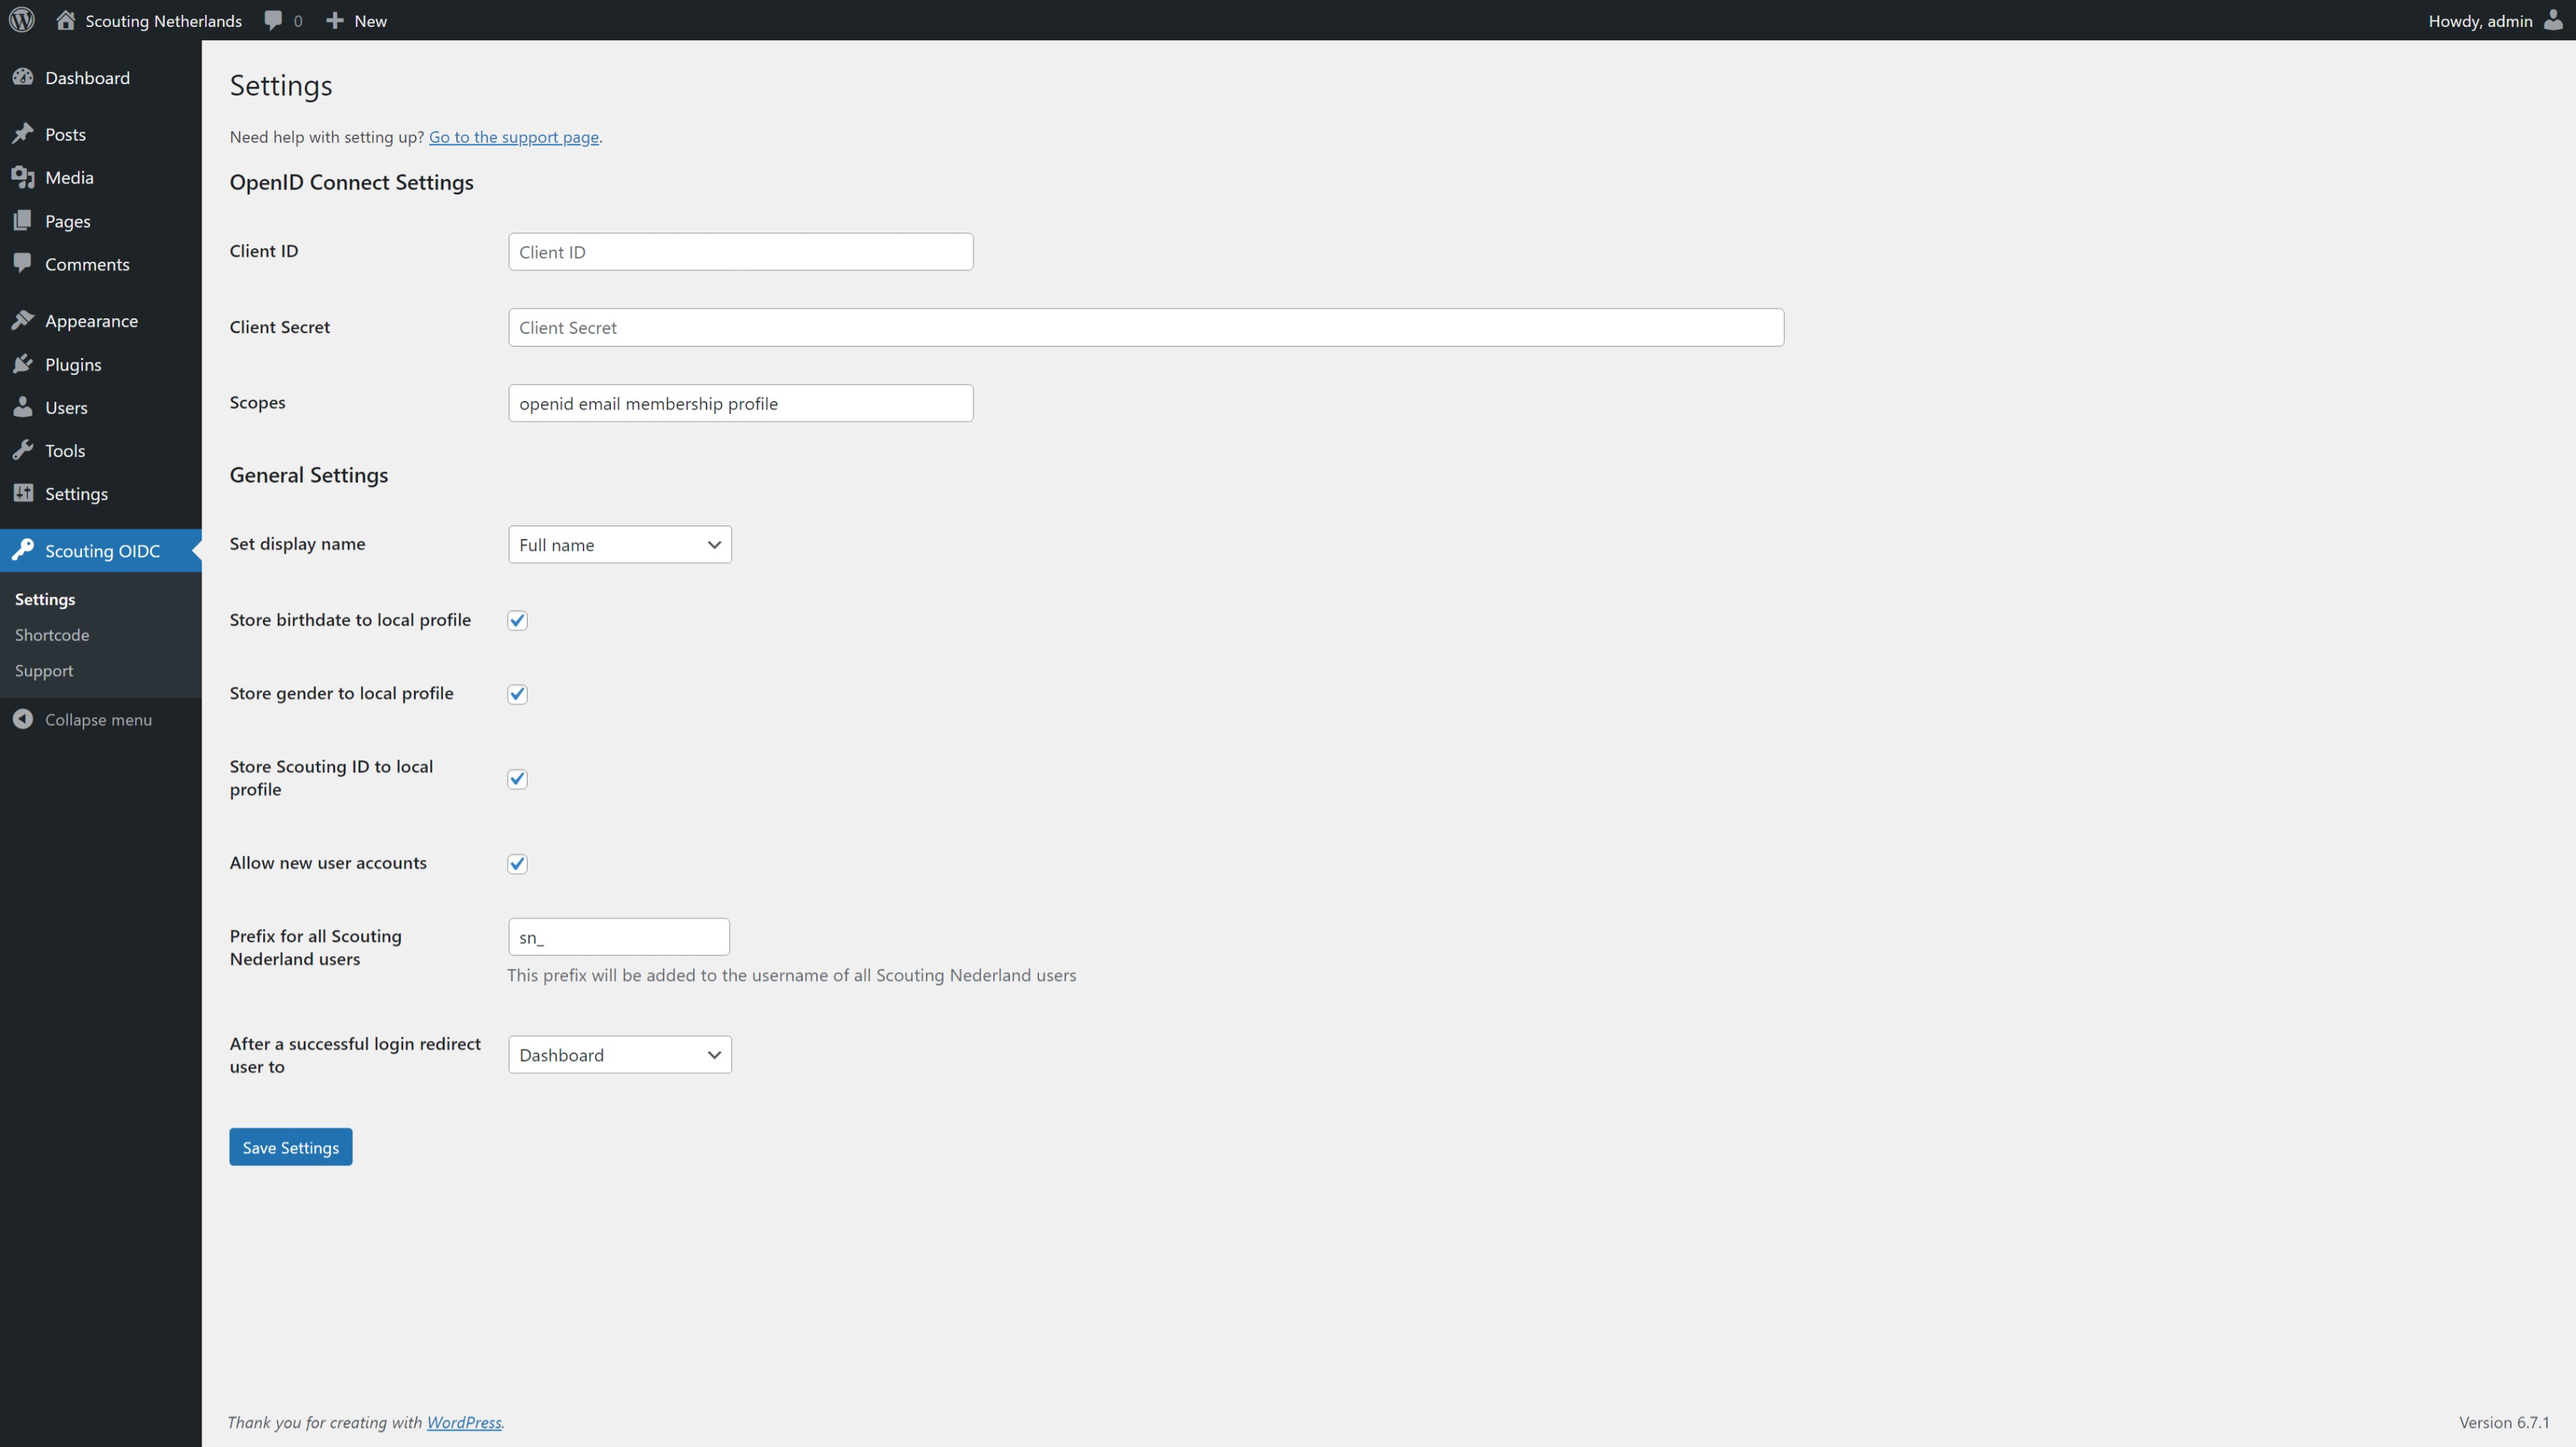
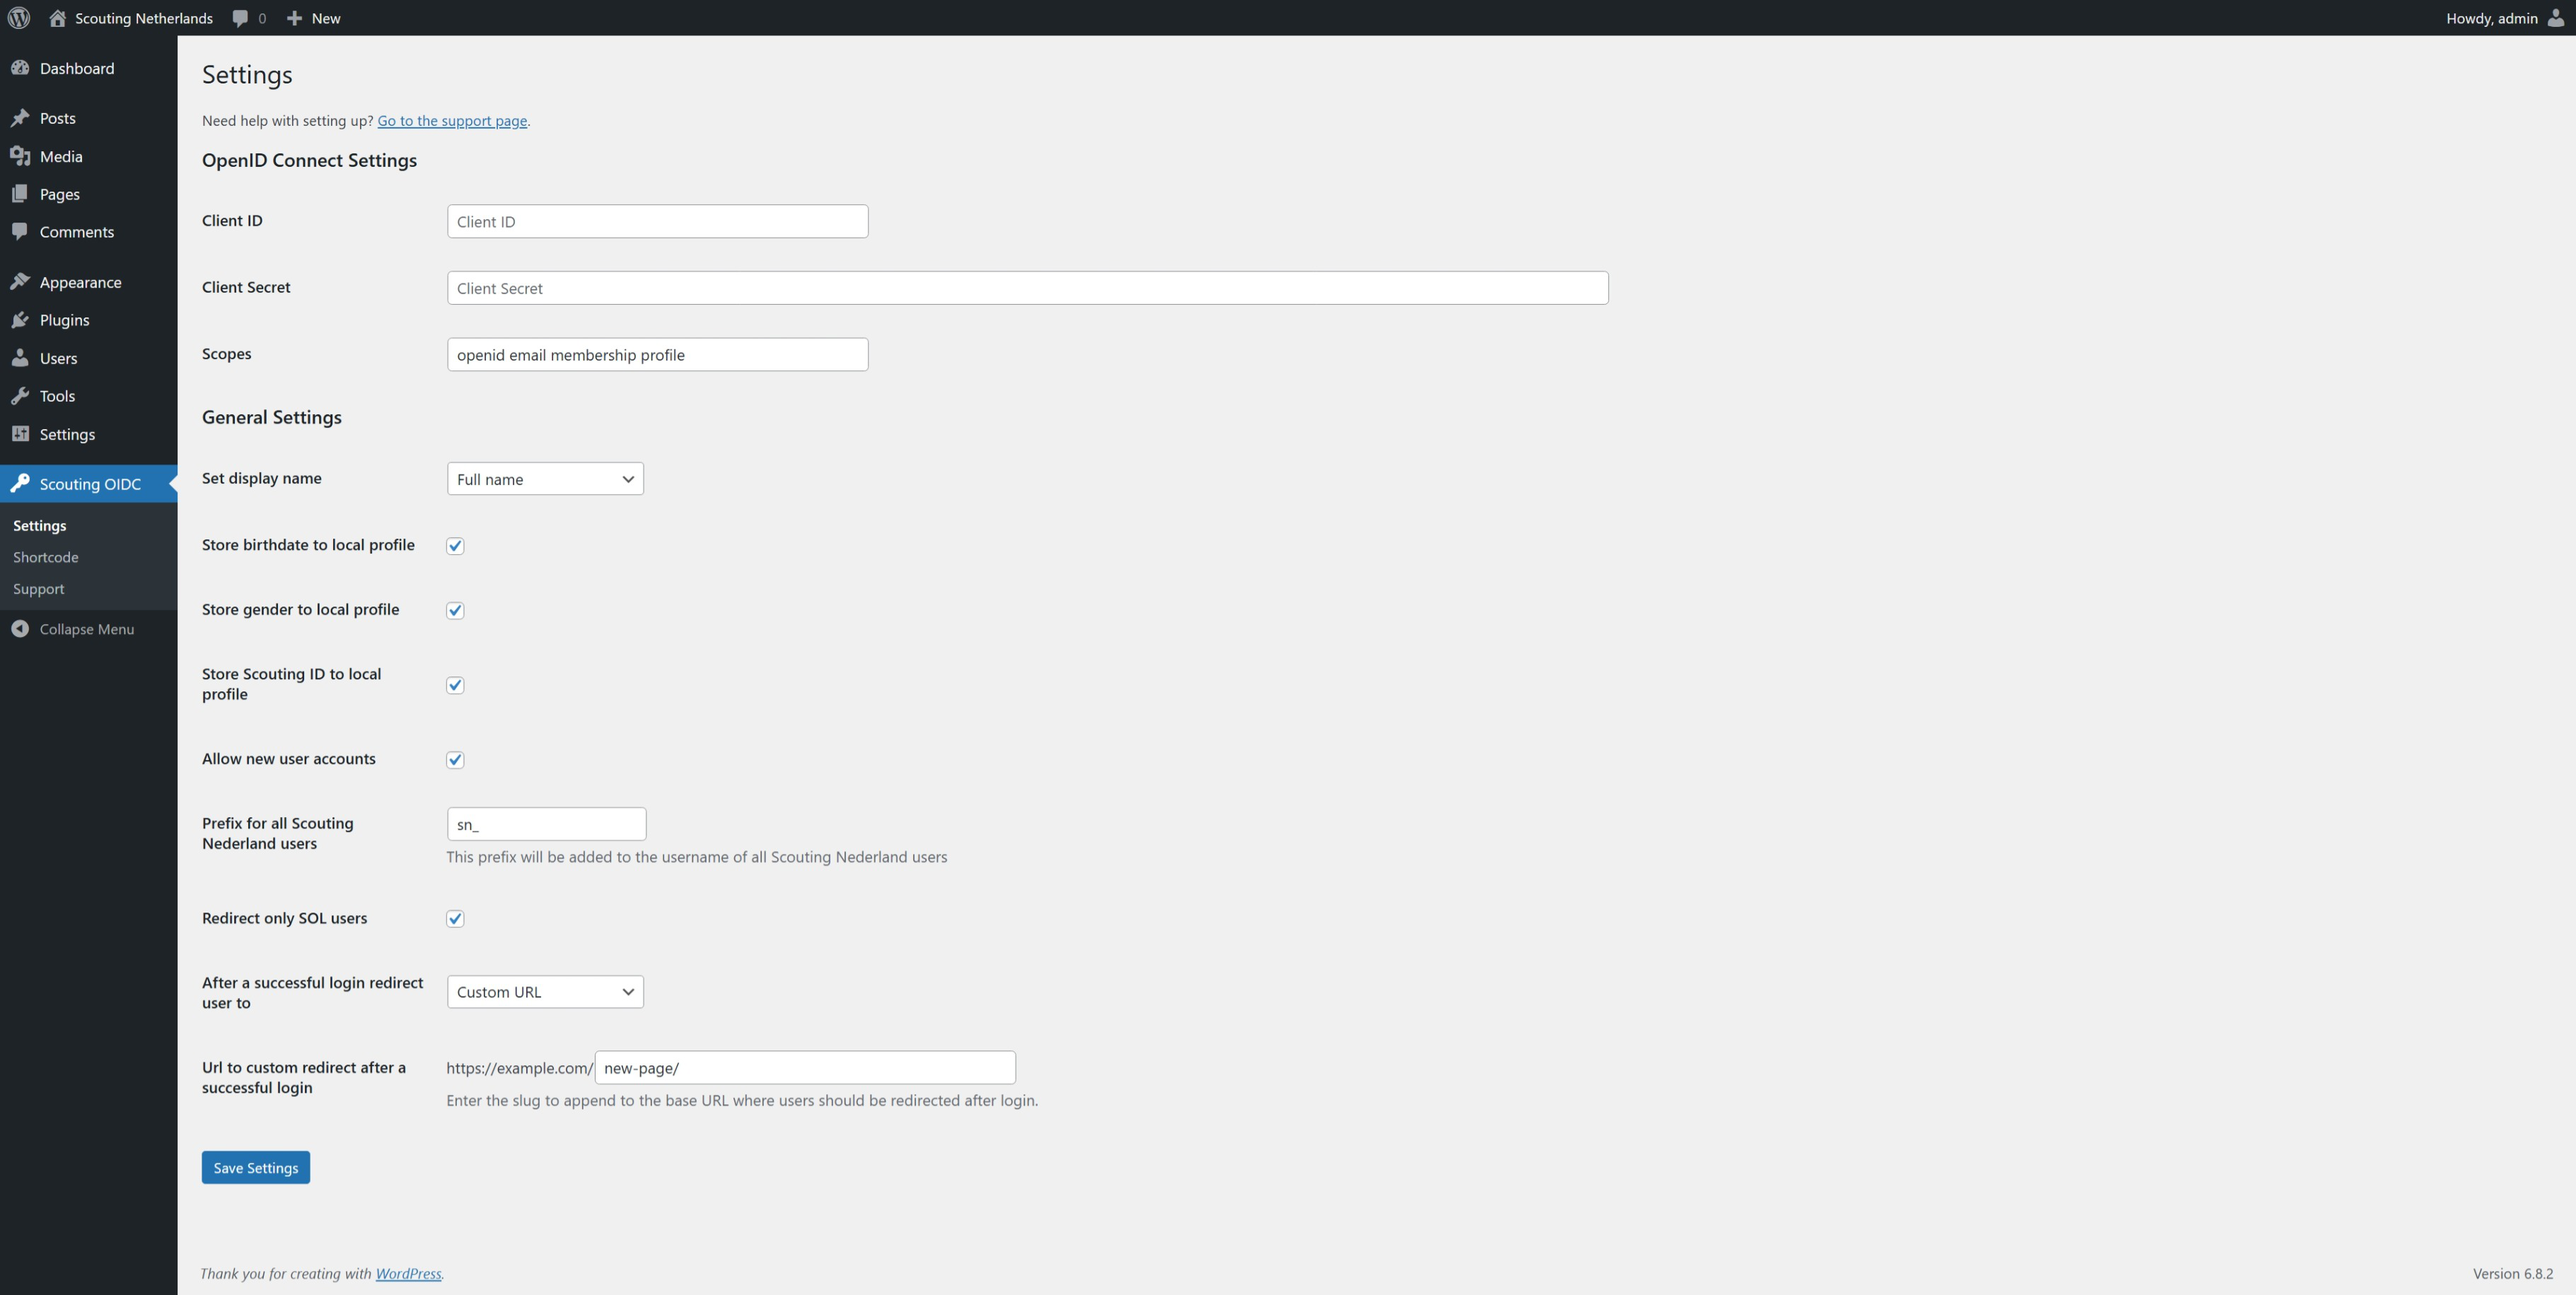
Release 1.2.0

diff --git a/src/settings/hide-field.js b/src/settings/hide-field.js
@@ -1,0 +1,16 @@
+document.addEventListener('DOMContentLoaded', function() {
+    function toggleCustomRedirect() {
+        var select = document.getElementById('scouting_oidc_login_redirect');
+        var customRow = document.querySelector('.scouting-oidc-custom-redirect-tr');
+        if (select.value === 'custom') {
+            customRow.style.display = ''; // show
+        } else {
+            customRow.style.display = 'none'; // hide
+        }
+    }
+
+    toggleCustomRedirect();
+
+    var select = document.getElementById('scouting_oidc_login_redirect');
+    select.addEventListener('change', toggleCustomRedirect);
+});

diff --git a/src/settings/general.php b/src/settings/general.php
@@ -85,6 +85,18 @@ class Settings_General
             'scouting-openid-connect-settings',                                         // Page slug
             'scouting_oidc_general_settings'                                            // Section ID where the field should be added
         );
+
+        // Add a settings text field
+        add_settings_field(
+            'scouting_oidc_custom_redirect',                                                  // Field ID
+            __('Url to custom redirect after a successful login', 'scouting-openid-connect'), // Field label
+            [$this, 'scouting_oidc_settings_general_custom_redirect_callback'],               // Callback to render field
+            'scouting-openid-connect-settings',                                               // Page slug
+            'scouting_oidc_general_settings',                                                 // Section ID where the field should be added
+            [
+                'class' => 'scouting-oidc-custom-redirect-tr'                                 // Extra args to identify the tr for JS
+            ]
+        );
     
         // Register settings
         register_setting(
@@ -157,6 +169,15 @@ class Settings_General
                 'sanitize_callback' => [$this, 'scouting_oidc_sanitize_login_redirect_option'] // Sanitize the input value as login redirect
             ]
         );
+
+        // Register settings
+        register_setting(
+            'scouting_oidc_settings_group',                                                     // Settings group name
+            'scouting_oidc_custom_redirect',                                                    // Option name
+            [
+                'sanitize_callback' => [$this, 'scouting_oidc_sanitize_custom_redirect_option'] // Sanitize the input value as custom redirect
+            ]
+        );
     }
 
     // Sanitize the display name option
@@ -176,10 +197,24 @@ class Settings_General
     // Sanitize the login redirect option
     public function scouting_oidc_sanitize_login_redirect_option($input) {
         // Define allowed options
-        $valid = ['default', 'frontpage', 'dashboard'];
+        $valid = ['default', 'frontpage', 'dashboard', 'custom'];
         
         // Return the input if it’s a valid option; otherwise, default to 'default'
         return in_array($input, $valid, true) ? $input : 'default';
+    }
+
+    // Sanitize the custom redirect option
+    public function scouting_oidc_sanitize_custom_redirect_option($input) {
+        // Define your fixed base domain
+        $base_domain = home_url('/'); // automatically gets https://example.com/
+
+        // Add the base domain if it's not already present
+        if (!empty($input) && strpos($input, $base_domain) !== 0) {
+            $input = $base_domain . ltrim($input, '/');
+        }
+
+        // Sanitize the input
+        return sanitize_text_field($input);
     }
 
     // Callback to render section content
@@ -258,6 +293,7 @@ class Settings_General
             'default' => __('Default (no action)', 'scouting-openid-connect'),
             'frontpage' => __('Frontpage', 'scouting-openid-connect'),
             'dashboard' => __('Dashboard', 'scouting-openid-connect'),
+            'custom' => __('Custom URL', 'scouting-openid-connect'),
         );
         $value = get_option('scouting_oidc_login_redirect');
         
@@ -269,6 +305,23 @@ class Settings_General
                 echo '<option value="' . esc_attr($key) . '">' . esc_html($name) . '</option>';
         }
         echo '</select>';
+    }
+
+    // Callback to render text field
+    public function scouting_oidc_settings_general_custom_redirect_callback() {
+        $value = get_option('scouting_oidc_custom_redirect');
+
+        // Define your fixed base domain
+        $base_domain = home_url('/'); // automatically gets https://example.com/
+
+        // Remove base domain from stored value (so only the slug is stored/displayed)
+        $slug = '';
+        if (!empty($value) && strpos($value, $base_domain) === 0) {
+            $slug = substr($value, strlen($base_domain));
+        }
+        echo '<span style="padding: 5.675px 0px;">' . esc_html($base_domain) . '</span>';
+        echo '<input type="text" id="scouting_oidc_custom_redirect" name="scouting_oidc_custom_redirect" size="50" value="' . esc_attr($slug) . '" placeholder="' . esc_attr__("custom-page", "scouting-openid-connect") . '"/>';
+        echo '<p class="description">' . esc_html__("Enter the slug to append to the base URL where users should be redirected after login.", "scouting-openid-connect") . '</p>';
     }
 }
 ?>

diff --git a/scouting-openid-connect.php b/scouting-openid-connect.php
@@ -9,14 +9,14 @@ if ( ! defined( 'ABSPATH' ) ) exit; // Exit if accessed directly
  * @author     Job van Koeveringe <job.van.koeveringe@scouting.nl>
  * @copyright  2025 Scouting Nederland
  * @license    GPLv3
- * @version    1.1.0
+ * @version    1.2.0
  * @link       https://github.com/Scouting-nl/scouting-openid-connect
  *
  * @wordpress-plugin
  * Plugin Name:          Scouting OpenID Connect
  * Plugin URI:           https://github.com/Scouting-nl/scouting-openid-connect
  * Description:          WordPress plugin for logging in with Scouting Nederland OpenID Connect Server.
- * Version:              1.1.0
+ * Version:              1.2.0
  * Requires at least:    6.4.3
  * Requires PHP:         8.2
  * Author:               Job van Koeveringe
@@ -61,10 +61,7 @@ $scouting_oidc_fields = new Fields();
 // Init plugin
 function scouting_oidc_init()
 {
-    global $scouting_oidc_auth, $scouting_oidc_actions, $scouting_oidc_fields, $scouting_oidc_shortcode; // Declare global variable
-
-    // Add translations to the plugin
-    load_plugin_textdomain('scouting-openid-connect', false, dirname(plugin_basename(__FILE__)) . '/languages');
+    global $scouting_oidc_auth, $scouting_oidc_actions, $scouting_oidc_fields, $scouting_oidc_shortcode, $scouting_oidc_settings; // Declare global variables
 
     // Add the OpenID Connect button to the login form
     add_action('login_form', array($scouting_oidc_auth, 'scouting_oidc_auth_login_form'));
@@ -73,7 +70,7 @@ function scouting_oidc_init()
     add_shortcode('scouting_oidc_button', array($scouting_oidc_auth, 'scouting_oidc_auth_login_button_shortcode'));
     add_shortcode('scouting_oidc_link', array($scouting_oidc_auth, 'scouting_oidc_auth_login_url_shortcode'));
 
-    // Geef extra links in de plugin-overzichtspagina
+    // Provide additional links in the plugin overview page
 	add_filter('plugin_action_links_'.plugin_basename(__FILE__), [$scouting_oidc_actions, 'scouting_oidc_actions_plugin_links']);
 
     // Add scouting ID, birthday and gender to user profile 
@@ -88,6 +85,7 @@ function scouting_oidc_init()
     add_action('edit_user_profile',  [$scouting_oidc_fields, 'scouting_oidc_fields_show_infix_field']);
     add_action('admin_enqueue_scripts', [$scouting_oidc_fields, 'scouting_oidc_fields_enqueue_infix_field_script']);
     add_action('admin_enqueue_scripts', [$scouting_oidc_shortcode, 'scouting_oidc_shortcode_enqueue_live_script']);
+    add_action('admin_enqueue_scripts', [$scouting_oidc_settings, 'scouting_oidc_fields_enqueue_hide_field_script']);
 }
 add_action('plugins_loaded', 'scouting_oidc_init');
 

diff --git a/src/settings/page.php b/src/settings/page.php
@@ -52,15 +52,32 @@ class Settings
         $scouting_oidc_settings_general = new Settings_General();
         $scouting_oidc_settings_general->scouting_oidc_settings_general();
     }
+    
+    /**
+     * This script renders JavaScript to hide the custom redirect field when not needed.
+     */
+    public function scouting_oidc_fields_enqueue_hide_field_script() {
+        // Enqueue the external JavaScript file
+        wp_enqueue_script(
+            'hide-field-script',                    // Handle name
+            plugins_url('hide-field.js', __FILE__), // Path to the file
+            array(),                                // No dependencies
+            "1.2.0",                                // Version number
+            array(
+                'strategy' => 'defer',              // Add the defer attribute
+                'in_footer' => true                 // Load the script in the footer
+            )
+        );
+    } 
 
     // Set up defaults during installation
     public function scouting_oidc_settings_install() {
-        // set default options for OIDC
+        // Set default options for OIDC
         update_option('scouting_oidc_client_id', '');
         update_option('scouting_oidc_client_secret', '');
         update_option('scouting_oidc_scopes', 'openid email membership profile');
 
-        // set default options for general settings
+        // Set default options for general settings
         update_option('scouting_oidc_user_display_name', 'fullname');
         update_option('scouting_oidc_user_birthdate', false);
         update_option('scouting_oidc_user_gender', false);
@@ -69,6 +86,7 @@ class Settings
         update_option('scouting_oidc_user_auto_create', true);
         update_option('scouting_oidc_user_redirect', true);
         update_option('scouting_oidc_login_redirect', 'frontpage');
+        update_option('scouting_oidc_custom_redirect', '');
     }
 }
 ?>

diff --git a/src/shortcode/page.php b/src/shortcode/page.php
@@ -109,7 +109,7 @@ class Shortcode
             'live-shortcode-script',                    // Handle name
             plugins_url('live-shortcode.js', __FILE__), // Path to the file
             array(),                                    // No dependencies
-            "1.1.0",                                    // Version number
+            "1.2.0",                                    // Version number
             array(
                 'strategy' => 'defer',                  // Add the defer attribute
                 'in_footer' => true                     // Load the script in the footer

diff --git a/src/user/fields.php b/src/user/fields.php
@@ -113,7 +113,7 @@ class Fields
             'infix-field-script',                    // Handle name
             plugins_url('infix-field.js', __FILE__), // Path to the file
             array(),                                 // No dependencies
-            "1.1.0",                                 // Version number
+            "1.2.0",                                 // Version number
             array(
                 'strategy' => 'defer',               // Add the defer attribute
                 'in_footer' => true                  // Load the script in the footer

diff --git a/src/auth/auth.php b/src/auth/auth.php
@@ -282,6 +282,15 @@ class Auth {
             wp_safe_redirect(home_url());
             exit;
         }
+        elseif ($redirect_setting === 'custom') {
+            $custom_redirect = get_option('scouting_oidc_custom_redirect');
+            $safe_redirect = wp_validate_redirect($custom_redirect, home_url());
+            wp_safe_redirect($safe_redirect);
+            exit;
+        }
+        else {
+            return; // Default WordPress behavior
+        }
     }
 
     // Redirect after logout based on settings

diff --git a/uninstall.php b/uninstall.php
@@ -15,6 +15,7 @@ $options = array(
 	'scouting_oidc_user_auto_create',
 	'scouting_oidc_user_redirect',
 	'scouting_oidc_login_redirect',
+	'scouting_oidc_custom_redirect',
 );
 
 foreach ($options as $option) {

diff --git a/CHANGELOG.md b/CHANGELOG.md
@@ -1,6 +1,18 @@
 # Change Log
 All notable changes to this project will be documented in this file.
 
+## [[1.2.0](https://github.com/scouting-nl/scouting-openid-connect/releases/tag/1.2.0)] - 14/09/2025
+ 
+Added custom redirect option for successful login.
+ 
+### Added
+
+- Added custom redirect option for successful login.
+ 
+### Changed
+
+### Fixed
+
 ## [[1.1.0](https://github.com/scouting-nl/scouting-openid-connect/releases/tag/1.1.0)] - 23/06/2025
  
 Added option to redirect only SOL users in settings

diff --git a/README.md b/README.md
@@ -7,7 +7,7 @@
 **Contributors:** [jobvk](https://github.com/jobvk) \
 **Requires at least:** 6.4.3 \
 **Tested up to:** 6.8 \
-**Stable tag:** 1.1.0 \
+**Stable tag:** 1.2.0 \
 **Tags:** scouting, scouting nederland, sol, openid connect, oidc \
 **License:** GPLv3 \
 **License URI:** https://www.gnu.org/licenses/gpl-3.0.html
